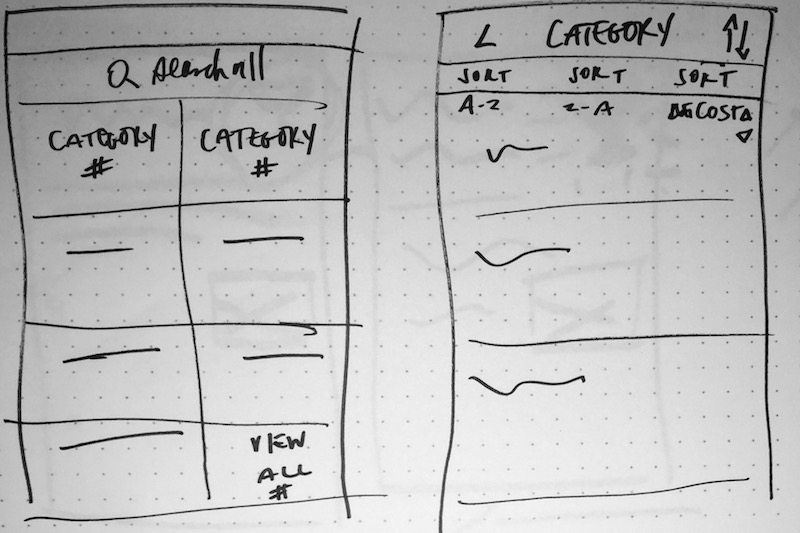
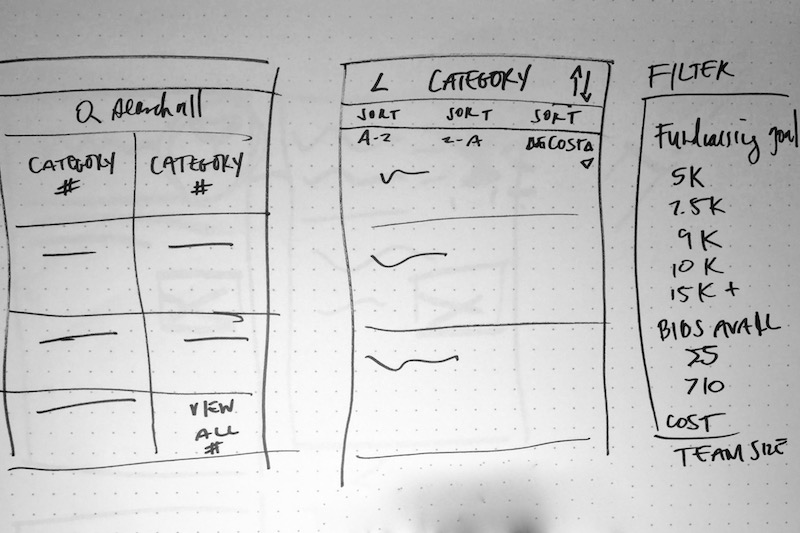
added addl wireframes on marathon page, resized marathon img on homepage

Changed region(s): [[0.0, 0.0, 1.0, 1.0], [0.5938, 0.4503, 0.6562, 0.5103], [0.6562, 0.4503, 0.7188, 0.4803]]

diff --git a/marathon.html b/marathon.html
@@ -455,7 +455,7 @@
             </div>
  
         <div class="container">
-                <div class="row container-grid nf-col-3">
+                <div class="row container-grid nf-col-2">
                        <div class="nf-item photo spacing">
                         <div class="item-box">
                             <a class="cbox-gallary1" href="img/portfolio/1.2.jpg" title="Initial sketches: Homepage & Search by">
@@ -486,35 +486,11 @@
 
                  
 
-                    <div class="nf-item branding design coffee spacing">
-                        <div class="item-box">
-                            <a class="cbox-gallary1" href="img/portfolio/1.3.jpg" title="Initial Sketches: Homepage & Category Sorting">
-                                <img class="item-container" src="img/portfolio/1.3.jpg" alt="4" />
-                                <div class="item-mask">
-                                    <div class="item-caption">
-                                        <h5 class="white">Initial Sketches</h5>
-                                        <p class="white">Homepage & Category Sorting</p>
-                                    </div>
-                                </div>
-                            </a>
-                        </div>
-                    </div>
+                <!--     -->
+
+                   
 
                     <!-- <div class="nf-item branding design spacing">
-                        <div class="item-box">
-                            <a class="cbox-gallary1" href="img/portfolio/4.jpg" title="Tellus eget condimentum">
-                                <img class="item-container" src="img/portfolio/4.jpg" alt="4" />
-                                <div class="item-mask">
-                                    <div class="item-caption">
-                                        <h5 class="white">Tellus eget condimentum</h5>
-                                        <p class="white">Design</p>
-                                    </div>
-                                </div>
-                            </a>
-                        </div>
-                    </div>
-
-                    <div class="nf-item branding design spacing">
                         <div class="item-box">
                             <a class="cbox-gallary1" href="img/portfolio/5.jpg" title="Nullam quis ant">
                                 <img class="item-container" src="img/portfolio/5.jpg" alt="5" />
@@ -522,20 +498,6 @@
                                     <div class="item-caption">
                                         <h5 class="white">Nullam quis ant</h5>
                                         <p class="white">Branding, Design</p>
-                                    </div>
-                                </div>
-                            </a>
-                        </div>
-                    </div>
-
-                    <div class="nf-item photo spacing">
-                        <div class="item-box">
-                            <a class="cbox-gallary1" href="img/portfolio/6.jpg" title="Sed fringilla mauris">
-                                <img class="item-container" src="img/portfolio/6.jpg" alt="6" />
-                                <div class="item-mask">
-                                    <div class="item-caption">
-                                        <h5 class="white">Sed fringilla mauris</h5>
-                                        <p class="white">Photo</p>
                                     </div>
                                 </div>
                             </a>
@@ -603,6 +565,52 @@
                             </a>
                         </div>
                     </div>
+
+
+                 <div class="nf-item branding design coffee spacing">
+                        <div class="item-box">
+                            <a class="cbox-gallary1" href="img/portfolio/1.3.jpg" title="More sketching: Filters">
+                                <img class="item-container" src="img/portfolio/1.3.jpg" alt="4" />
+                                <div class="item-mask">
+                                    <div class="item-caption">
+                                        <h5 class="white">More sketching:</h5>
+                                        <p class="white">Figuring out a better way to sort and filter results</p>
+                                    </div>
+                                </div>
+                            </a>
+                        </div>
+                    </div>
+
+
+                 <div class="nf-item branding design spacing">
+                        <div class="item-box">
+                            <a class="cbox-gallary1" href="img/portfolio/1.12.jpg" title="Wireframes: Search by average fundraising amount">
+                                <img class="item-container" src="img/portfolio/1.12.jpg" alt="4" />
+                                <div class="item-mask">
+                                    <div class="item-caption">
+                                        <h5 class="white">Wireframes:</h5>
+                                        <p class="white">Search by average fundraising amount</p>
+                                    </div>
+                                </div>
+                            </a>
+                        </div>
+                    </div>
+
+
+
+                    <div class="nf-item photo spacing">
+                        <div class="item-box">
+                            <a class="cbox-gallary1" href="img/portfolio/1.13.jpg" title="Wireframes: Category results filter">
+                                <img class="item-container" src="img/portfolio/1.13.jpg" alt="6" />
+                                <div class="item-mask">
+                                    <div class="item-caption">
+                                        <h5 class="white">Wireframes:</h5>
+                                        <p class="white">Category results filter</p>
+                                    </div>
+                                </div>
+                            </a>
+                        </div>
+                    </div>
             </div>
         </div>
 
@@ -623,7 +631,7 @@
                 </div>
             </div>
         </section>
-        <!-- End Work Detail Section -->
+        <!-- End Work Detail Section
 
         <!-- End CONTENT ------------------------------------------------------------------------------>
 
